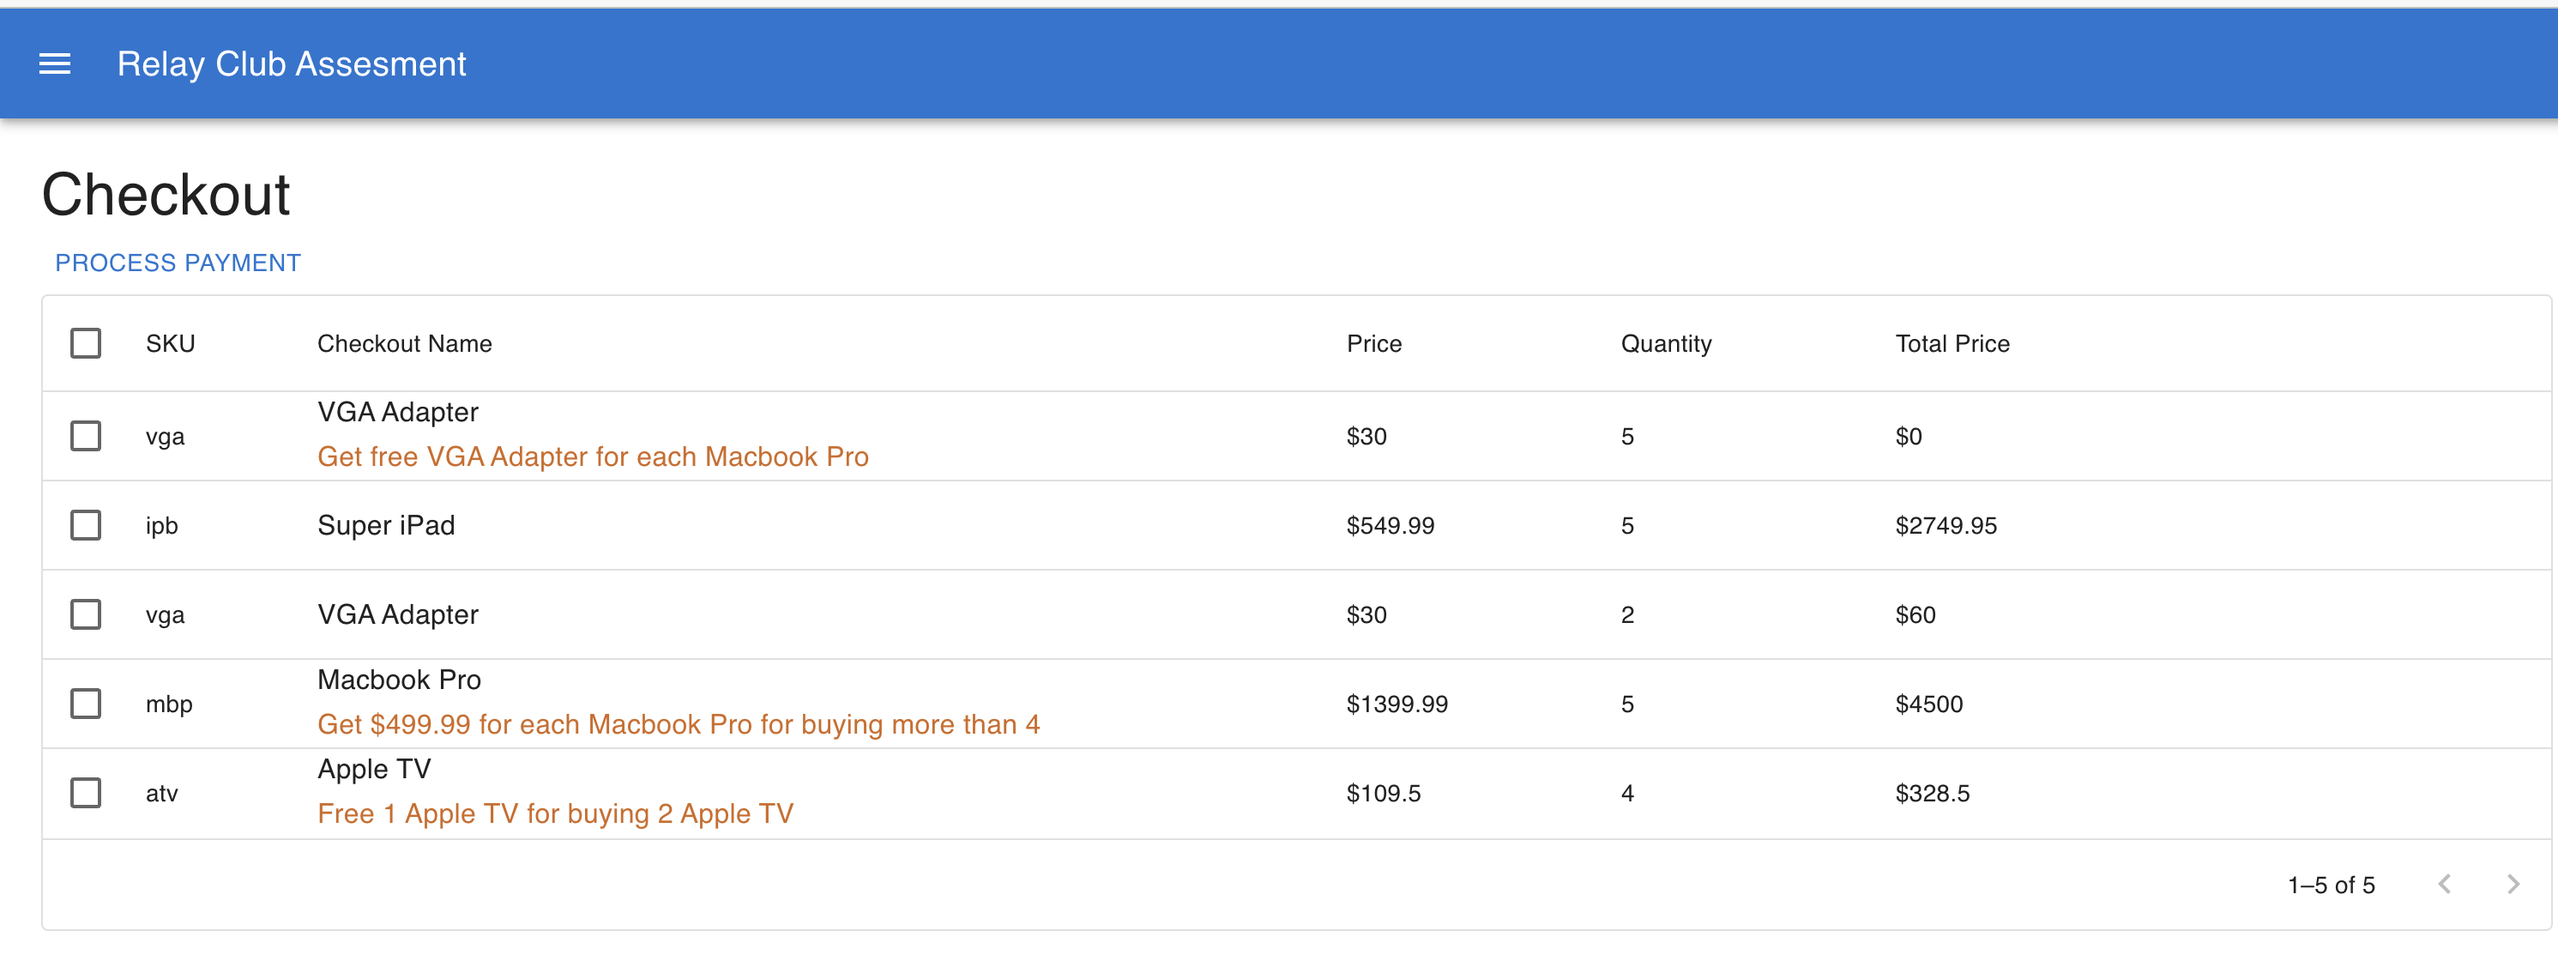
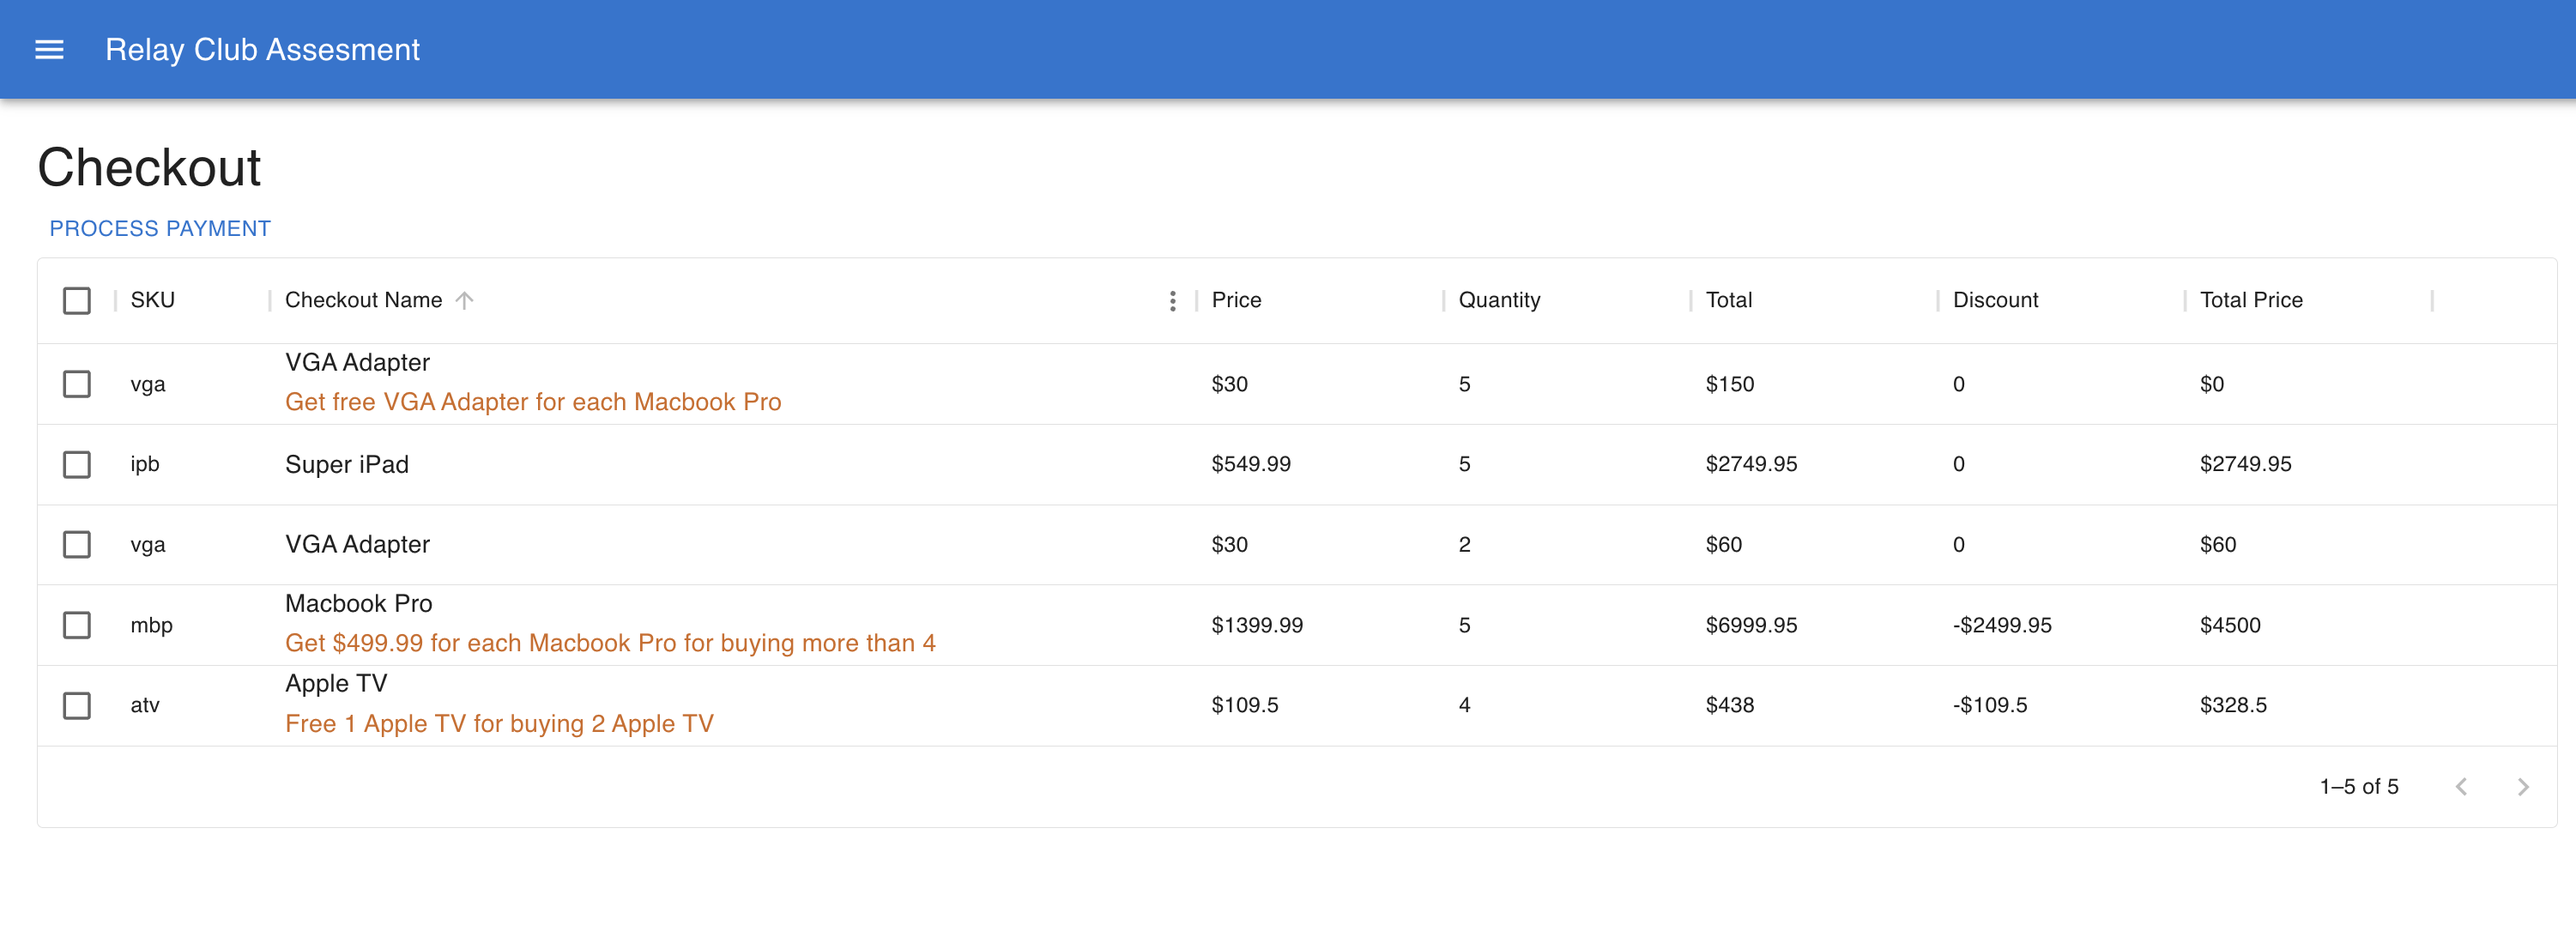
add more swagger docs

diff --git a/packages/backend/src/product/application/rest-controller/discount-rule/discount-rule-request.ts b/packages/backend/src/product/application/rest-controller/discount-rule/discount-rule-request.ts
@@ -8,26 +8,40 @@ import DiscountRule, {
 export class DicountRuleRequest {
   @ApiProperty({
     enum: Object.values(RuleType),
+    description: `RuleType: ${Object.values(RuleType).join(', ')}
+    * BULK_DISCOUNT: Discount applied to a product when a certain quantity is purchased
+    * BUY_X_GET_Y_FREE: Buy a certain quantity of a product and get a certain quantity of same product for free
+    * FREE_BUNDLE_ITEM: Buy a certain quantity of a product and get a certain quantity of another product for free`
   })
   @IsEnum(RuleType)
   ruleType: RuleType;
 
-  @ApiProperty()
+  @ApiProperty({
+    description: `quantity of product to trigger the discount`
+  })
   @Optional()
   @IsNumber()
   triggerQuantity?: number;
 
-  @ApiProperty()
+  @ApiProperty({
+    description: `discount value, can be a number or percentage`
+  })
   @Optional()
   @IsString()
   discountValue?: string;
 
-  @ApiProperty()
+  @ApiProperty({
+    description: `product free when triggerQuantity is reached`
+  })
   @Optional()
   @IsNumber()
   discountProduct?: number;
 
-  @ApiProperty()
+  @ApiProperty(
+    {
+      description: `amount of purchase to trigger the discount`
+    }
+  )
   @IsNumber()
   @Optional()
   minPurchaseAmount?: number;

diff --git a/packages/backend/src/product/domain/cart.service.ts b/packages/backend/src/product/domain/cart.service.ts
@@ -65,7 +65,7 @@ export default class CartService {
               };
             }
           }
-          if (rule.ruleType === RuleType.FREE_BUNDLE_ITEM) {
+          if (rule.ruleType === RuleType.BUY_X_GET_Y_FREE) {
             if (cart.quantity >= rule.triggerQuantity) {
               if (cart.quantity <= rule.triggerQuantity + rule.discountValue) {
                 cart.quantity = rule.triggerQuantity + rule.discountValue;
@@ -76,7 +76,7 @@ export default class CartService {
               };
             }
           }
-          if (rule.ruleType === RuleType.BUY_X_GET_Y_FREE) {
+          if (rule.ruleType === RuleType.FREE_BUNDLE_ITEM) {
             if (cart.quantity >= rule.triggerQuantity) {
               checkoutItems.push({
                 discount: 0,

diff --git a/packages/frontend/src/page/checkout/component/CheckoutTable.tsx b/packages/frontend/src/page/checkout/component/CheckoutTable.tsx
@@ -49,6 +49,20 @@ export default function CheckoutTable({
       valueGetter: (params) => `${params.row.quantity}`,
     },
     {
+      field: 'total',
+      headerName: 'Total',
+      width: 160,
+      valueGetter: (params) =>
+        `$${params.row.quantity * params.row.product.price}`,
+    },
+    {
+      field: 'discount',
+      headerName: 'Discount',
+      width: 160,
+      valueGetter: (params) =>
+        params.row.discount && `-$${params.row.discount}`,
+    },
+    {
       field: 'totalPrice',
       headerName: 'Total Price',
       width: 160,

diff --git a/packages/backend/src/product/infrastructure/repository/discount-rule.repository.ts b/packages/backend/src/product/infrastructure/repository/discount-rule.repository.ts
@@ -47,7 +47,7 @@ export default class DiscountRuleRepository
     await this.save([
       {
         id: 1,
-        ruleType: RuleType.FREE_BUNDLE_ITEM,
+        ruleType: RuleType.BUY_X_GET_Y_FREE,
         triggerQuantity: 2,
         triggerProduct: {
           id: 3,
@@ -67,7 +67,7 @@ export default class DiscountRuleRepository
       },
       {
         id: 3,
-        ruleType: RuleType.BUY_X_GET_Y_FREE,
+        ruleType: RuleType.FREE_BUNDLE_ITEM,
         discountProduct: {
           id: 4,
         },
